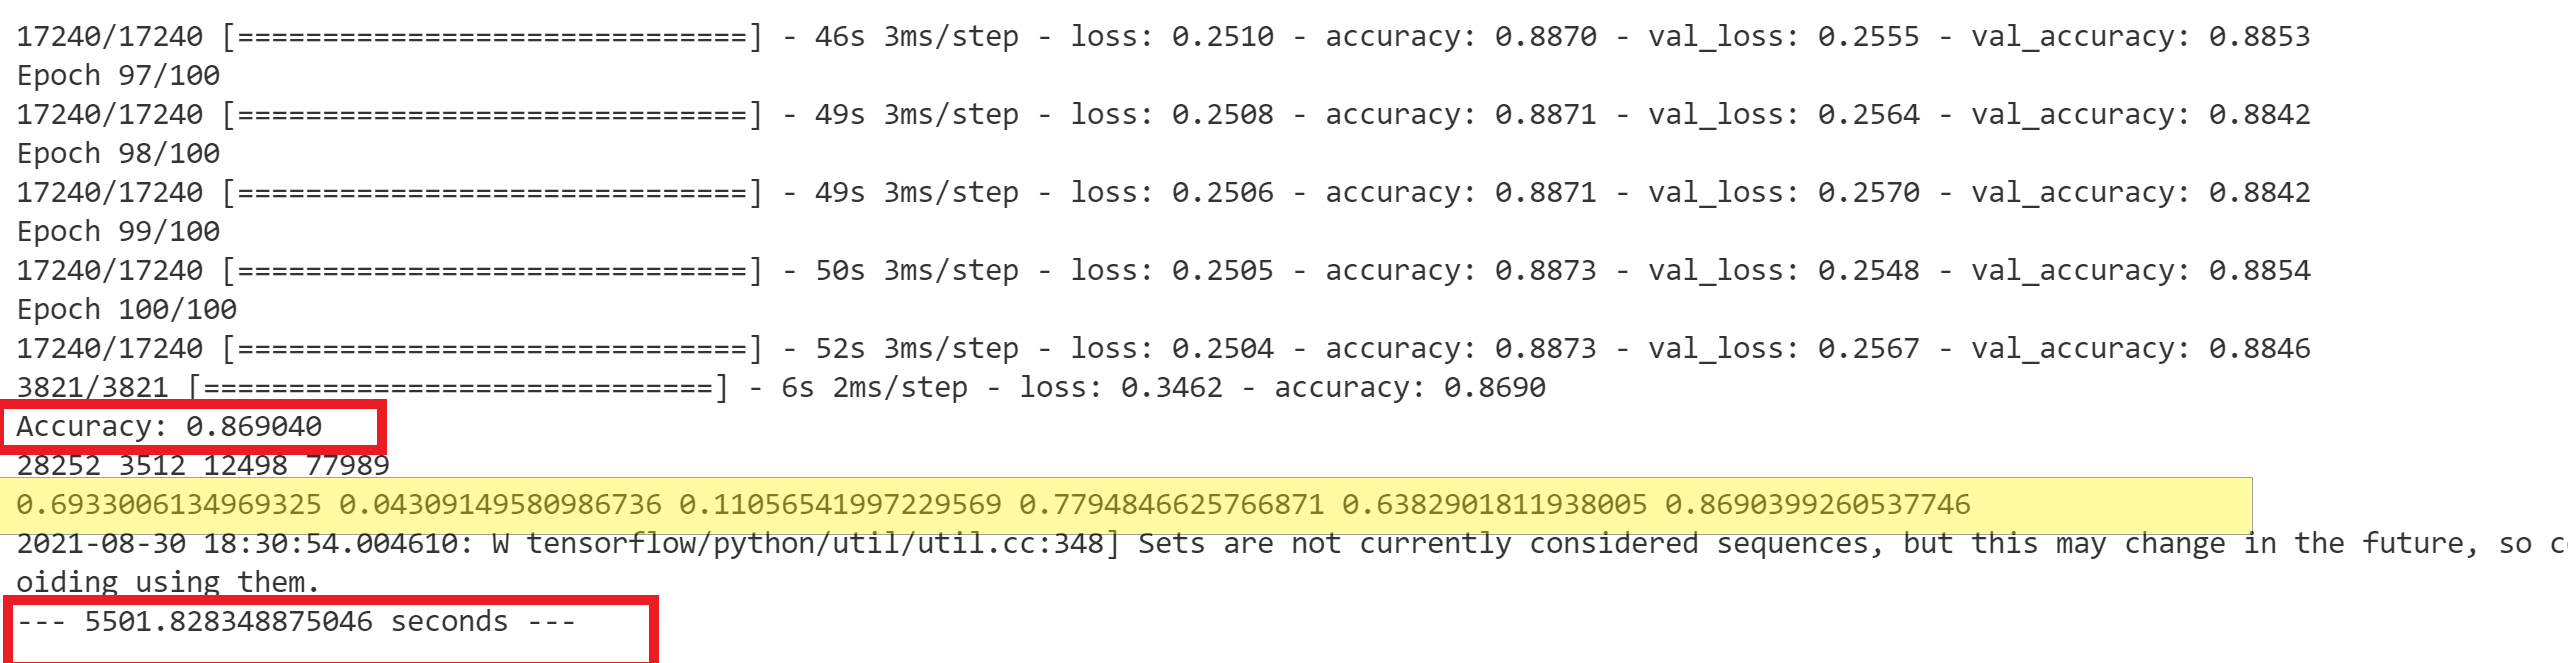
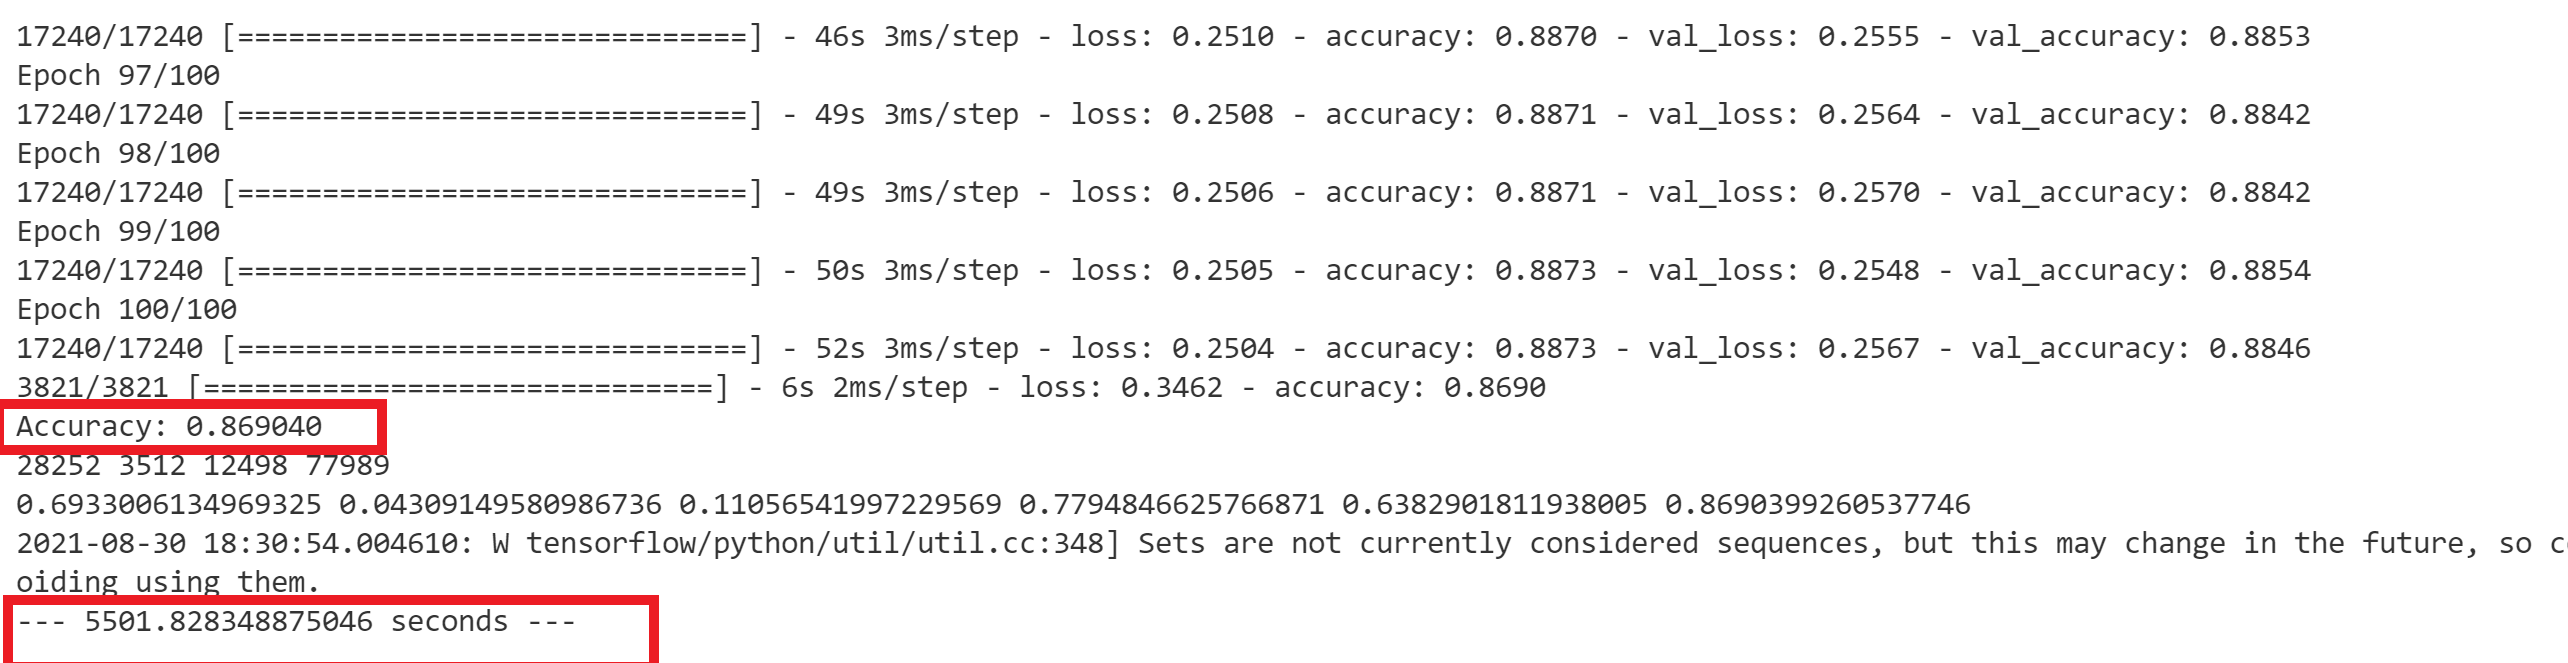
Output

Changed region(s): [[0.0, 0.6938, 0.9034, 0.8145]]

diff --git a/README.md b/README.md
@@ -43,8 +43,12 @@ Run the cloud_combine.py script using below command. This script accepts an argu
             python cloud_combine.py -f "rainy cloud"
          
 #### **Output**
-1. Once the script is finished running, you will find the output inside my_model folder.
-   The accuracy of the model is 86.90% and it took 91.69 minutes to finish.
+1. The model weights can be found in inside my_model folder.
+2. The accuracy metrics (highlighted in yellow) such as probability of detection (POD), probability of false detection (POFD), false alarm ratio (FAR), bias, critical success index (CSI), and model accuracy and runtime (in seconds) will be printed in the terminal when the process finishes.
+   | POD    | POFD   | FAR    | Bias   | CSI    | Accuracy |
+   |--------|--------|--------|--------|--------|----------|
+   | 0.6933 | 0.0431 | 0.1106 | 0.7795 | 0.6382 | 0.8690   |
+3. The accuracy of the model is 86.90% and it took 91.69 minutes to finish. 
    ![image](https://github.com/stccenter/CloudClassification/blob/main/Images/CPUOutput.png)
 
 ## **GPU-based implementation**
@@ -88,7 +92,7 @@ The GPU-based implementation is tested in three environments.
    8. Copy cudnn.lib file from lib/x64 folder inside extracted folder (C:\Users\anush\Downloads\cudnn-11.4-windows-x64-v8.2.2.26\cuda\lib\x64) and paste it in the similar folder of NVIDIA_GPU_Computing_Tookit (C:\Program Files\NVIDIA GPU Computing Toolkit\CUDA\v11.4\lib\x64).
    
 #### **5. Set up the virtual environment**
-   1. Create a new project folder and name it as per your wish. For example "cloudclassifygpu".
+   1. Create a new project folder and name it as per your wish. For example "cloudclassify-gpu".
    2. Go to Start menu and type “command prompt”.
    3. Open command prompt. Change to your project folder.
    4. Copy and paste the below line in your command prompt. This creates a virtual environment named “cloudclassify-gpu”. You can name virtual environment as per your wish.
